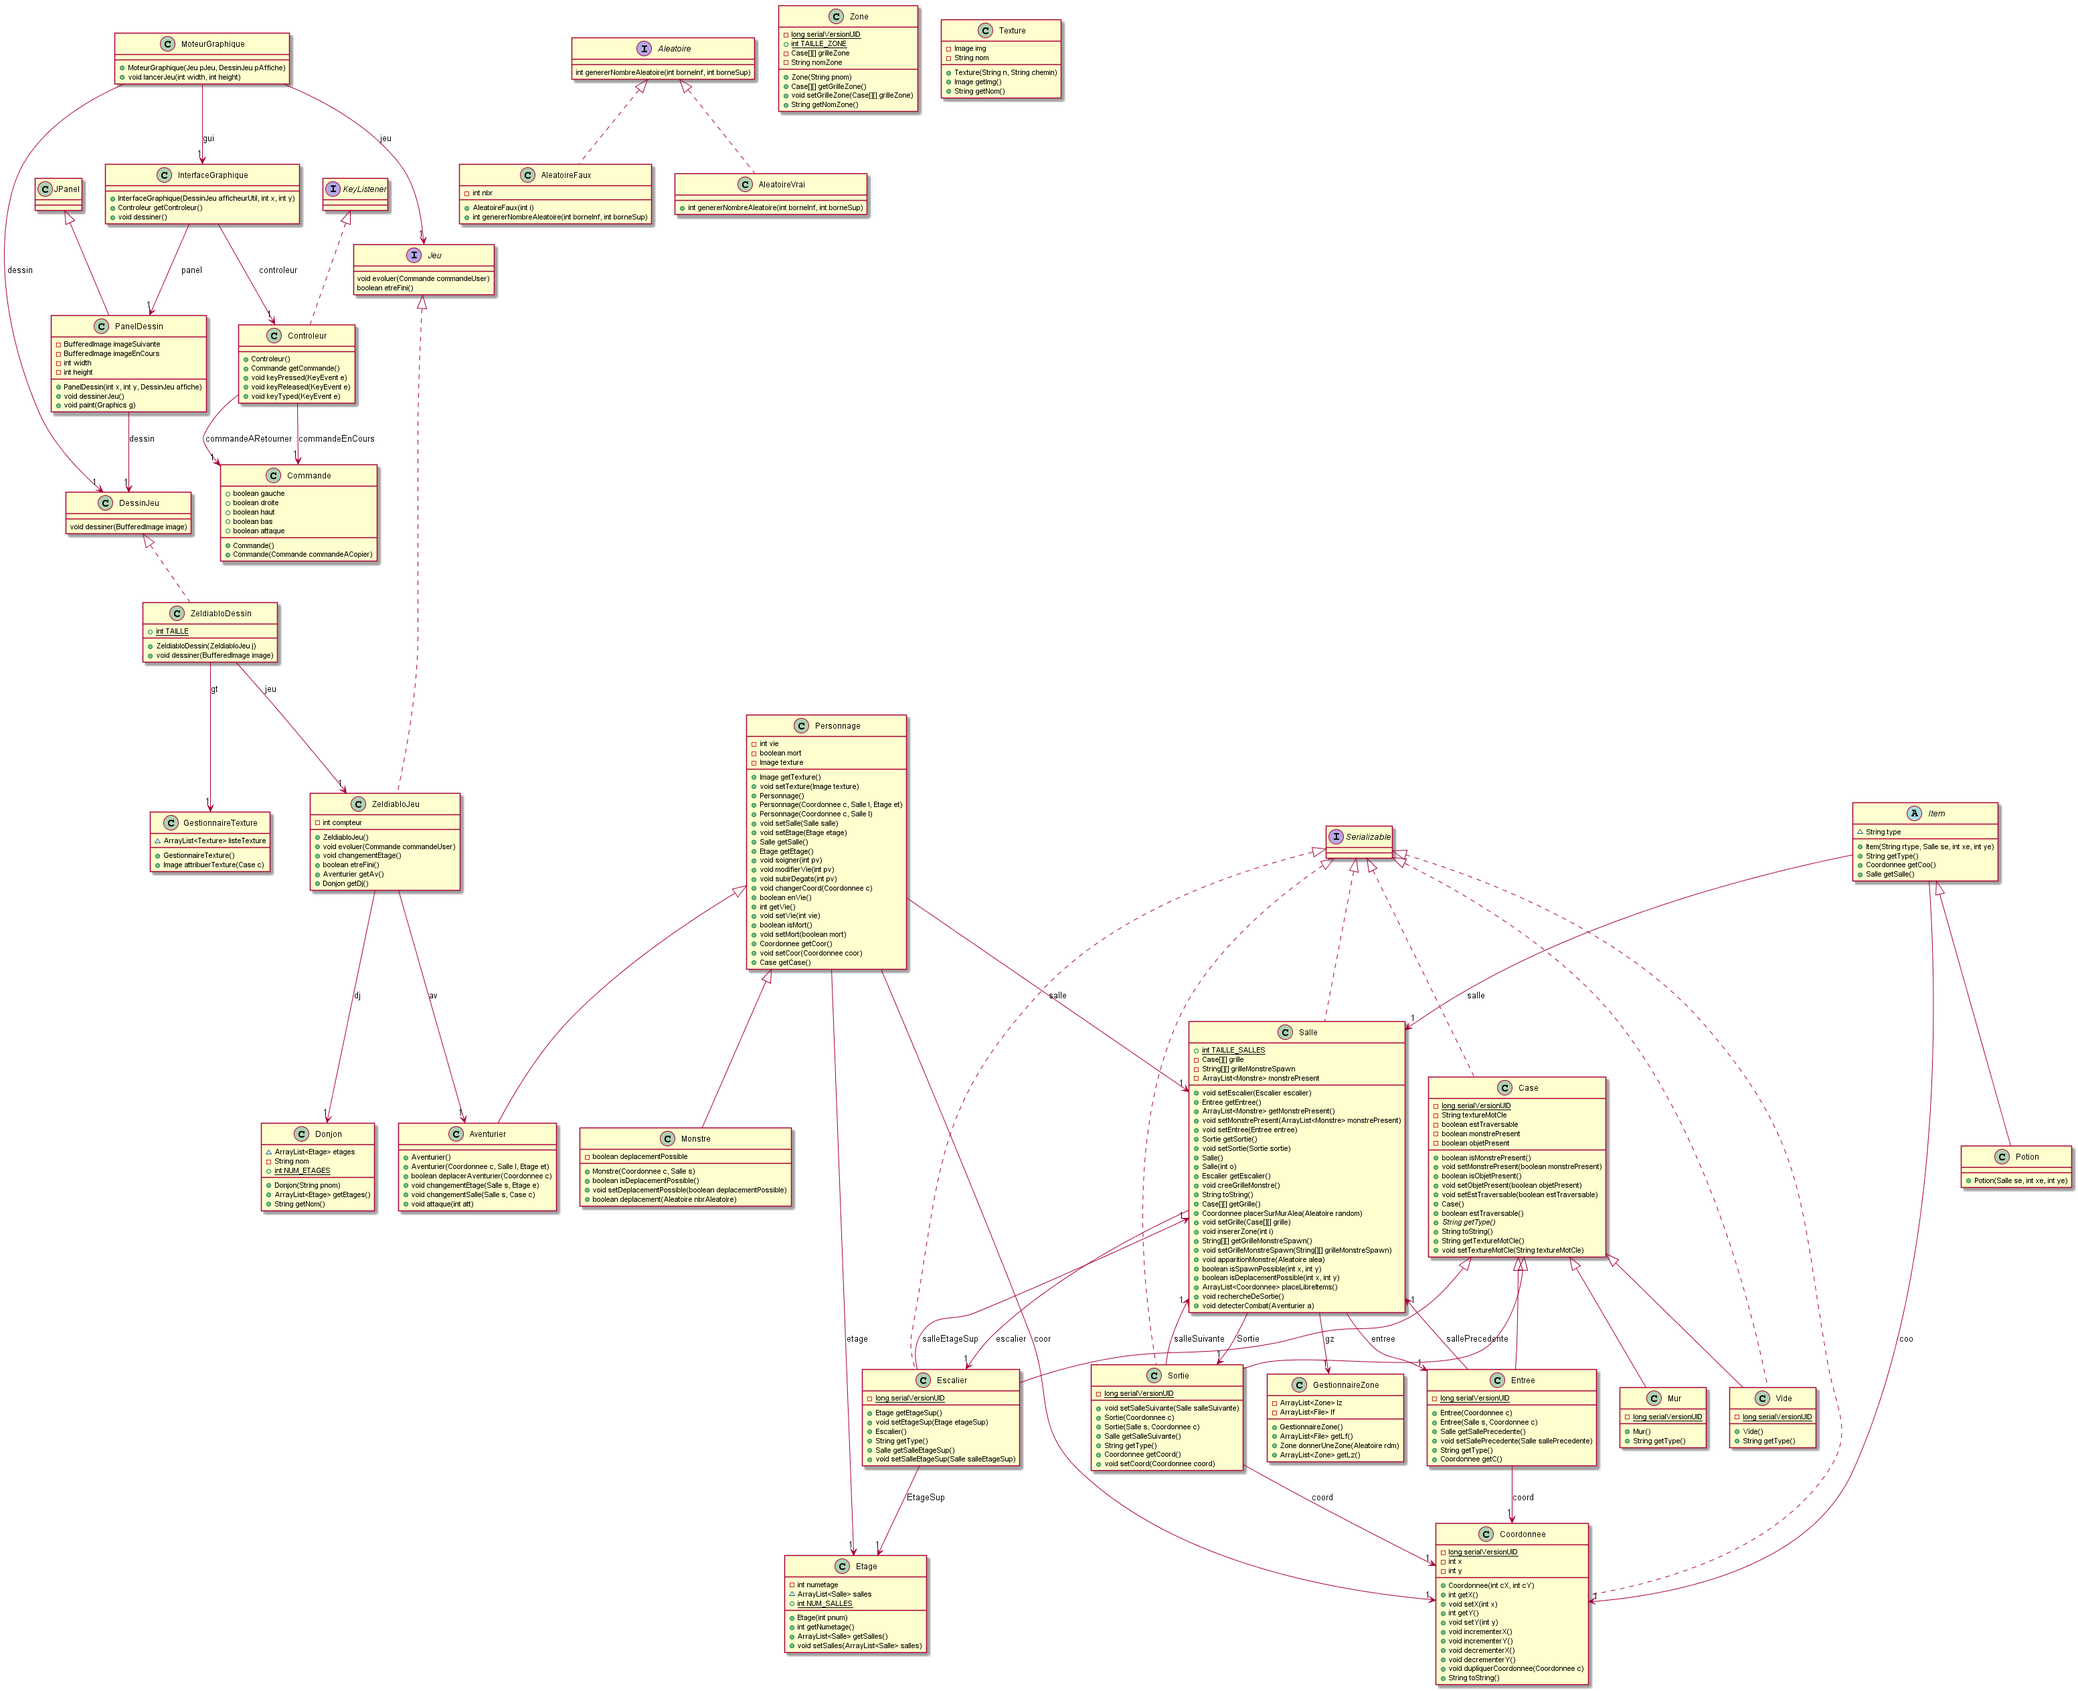
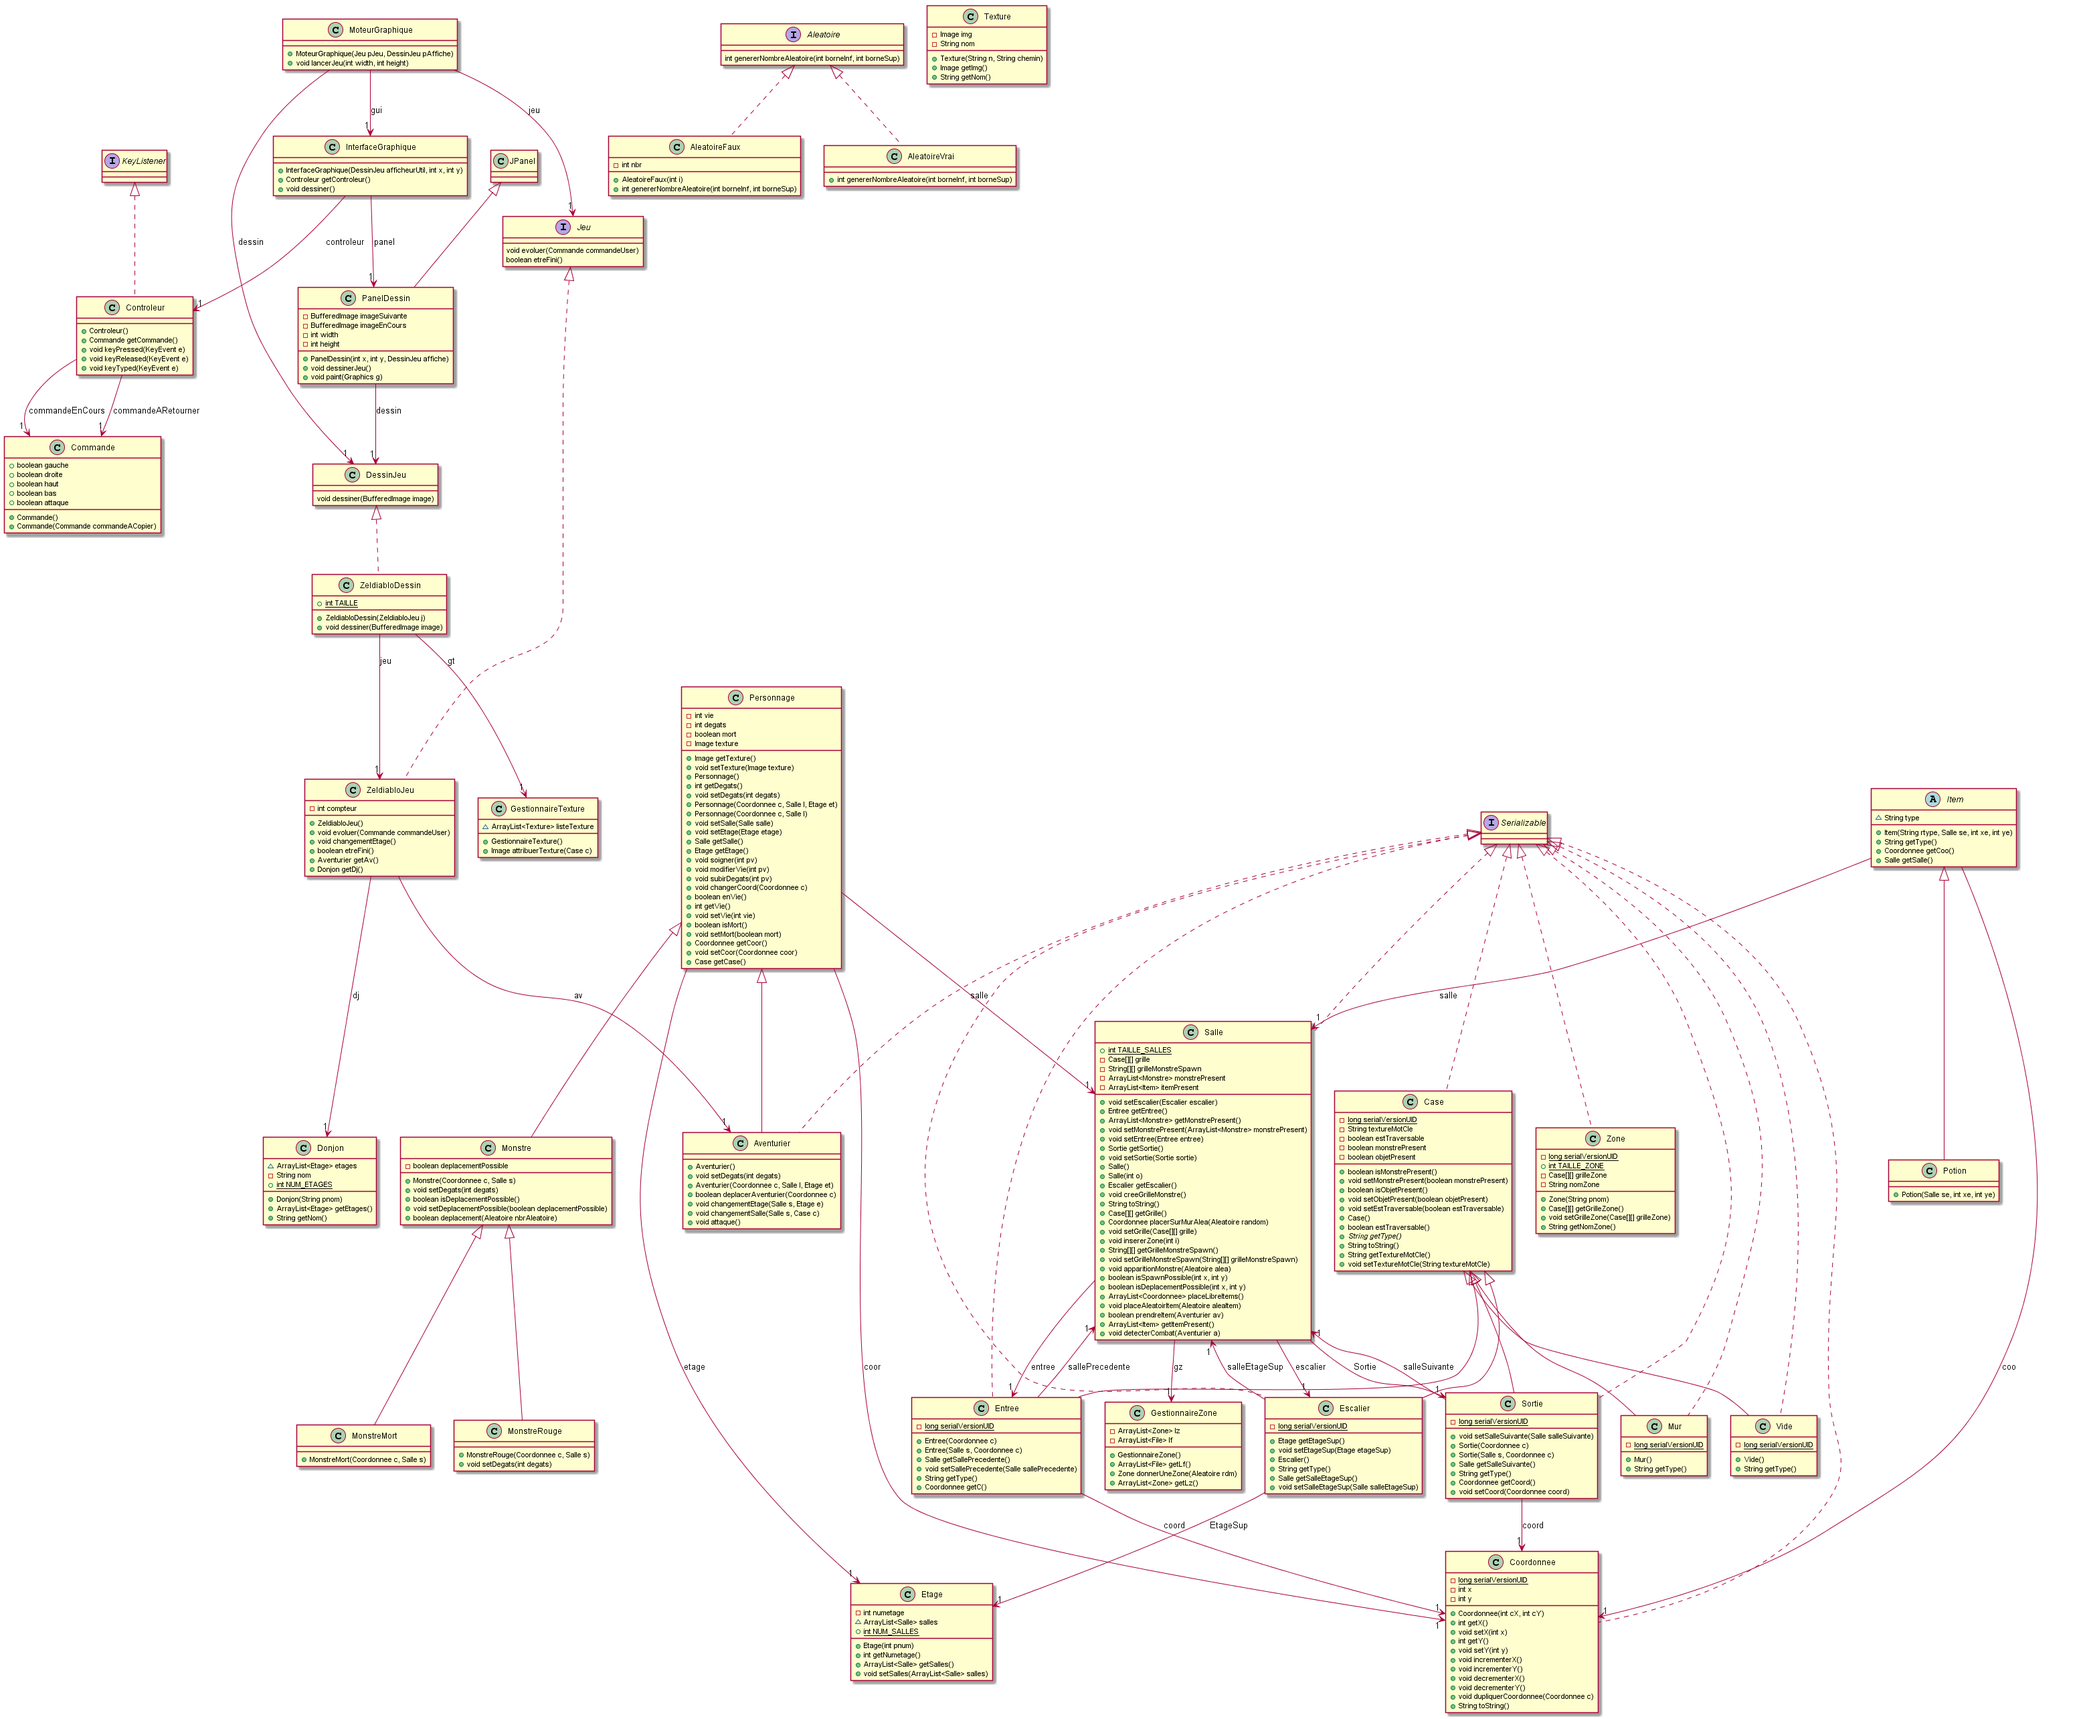
Gestion mortdes monstre + correction

diff --git a/projet_zeldiablo/src/zeldiablo/Salle.java b/projet_zeldiablo/src/zeldiablo/Salle.java
@@ -454,11 +454,23 @@ public class Salle implements Serializable{
 					(monstre.getCoor().getX()-1 == a.getCoor().getX() && monstre.getCoor().getY() == a.getCoor().getY()) || 
 					(monstre.getCoor().getX() == a.getCoor().getX() && monstre.getCoor().getY()+1 == a.getCoor().getY()) || 
 					(monstre.getCoor().getX() == a.getCoor().getX() && monstre.getCoor().getY()-1 == a.getCoor().getY())) {
-				a.subirDegats(a.getDegats());
+				a.subirDegats(monstre.getDegats());
 				monstre.setDeplacementPossible(false);
 				System.out.println(a.getVie()+"");
 			}else {
 				monstre.setDeplacementPossible(true);
+			}
+		}
+	}
+	
+	public void detecterLesMorts() {
+		
+		for(int i = 0; i < this.getMonstrePresent().size(); i++) {
+			if(this.getMonstrePresent().get(i).isMort()) {
+				MonstreMort mM = new MonstreMort(new Coordonnee(this.getMonstrePresent().get(i).getCoor().getX(),this.getMonstrePresent().get(i).getCoor().getY()),this);
+				this.getMonstrePresent().remove(this.getMonstrePresent().indexOf(this.getMonstrePresent().get(i)));
+				this.getMonstrePresent().add(mM);
+				this.getGrille()[mM.getCoor().getX()][mM.getCoor().getY()].setEstTraversable(true);
 			}
 		}
 	}

diff --git a/projet_zeldiablo/src/zeldiablo/ZeldiabloDessin.java b/projet_zeldiablo/src/zeldiablo/ZeldiabloDessin.java
@@ -60,7 +60,7 @@ public class ZeldiabloDessin implements DessinJeu {
 			//System.out.println("");
 		}
 		//System.out.println("============================================");
-		g.drawImage(this.jeu.getAv().getTexture(), this.jeu.getAv().getCoor().getX()*TAILLE, this.jeu.getAv().getCoor().getY()*TAILLE,TAILLE,TAILLE,null);
+		
 		g.setColor(Color.GREEN);
 		for(int i=0;i<this.jeu.getAv().getSalle().getItemPresent().size();i++) {
 			g.fillRect(this.jeu.getAv().getSalle().getItemPresent().get(i).getCoo().getX()*TAILLE, this.jeu.getAv().getSalle().getItemPresent().get(i).getCoo().getY()*TAILLE, TAILLE, TAILLE);
@@ -69,6 +69,8 @@ public class ZeldiabloDessin implements DessinJeu {
 			g.drawImage(this.jeu.getAv().getSalle().getMonstrePresent().get(i).getTexture(),this.jeu.getAv().getSalle().getMonstrePresent().get(i).getCoor().getX()*TAILLE, this.jeu.getAv().getSalle().getMonstrePresent().get(i).getCoor().getY()*TAILLE, TAILLE, TAILLE,null);
 		}
 
+		
+		g.drawImage(this.jeu.getAv().getTexture(), this.jeu.getAv().getCoor().getX()*TAILLE, this.jeu.getAv().getCoor().getY()*TAILLE,TAILLE,TAILLE,null);
 		g.dispose();
 
 	}

diff --git a/projet_zeldiablo/src/zeldiablo/Aventurier.java b/projet_zeldiablo/src/zeldiablo/Aventurier.java
@@ -50,6 +50,7 @@ public class Aventurier extends Personnage implements Serializable{
 		} catch (IOException e) {
 			e.printStackTrace();
 		}
+		this.setDegats(50);
 	}
 
 	/**
@@ -164,8 +165,10 @@ public class Aventurier extends Personnage implements Serializable{
 			if((monstre.getX() == this.getCoor().getX()+1 && monstre.getY() == this.getCoor().getY()) ||
 					(monstre.getX() == this.getCoor().getX()-1 && monstre.getY() == this.getCoor().getY()) ||
 					(monstre.getX() == this.getCoor().getX() && monstre.getY() == this.getCoor().getY()+1) ||
-					(monstre.getX() == this.getCoor().getX()+1 && monstre.getY() == this.getCoor().getY()-1)) {
+					(monstre.getX() == this.getCoor().getX() && monstre.getY() == this.getCoor().getY()-1)) {
 				this.getSalle().getMonstrePresent().get(i).subirDegats(this.getDegats());
+				System.out.println("Aventurier fait "+this.getDegats());
+				System.out.println("Vie monstre "+ this.getSalle().getMonstrePresent().get(i).getVie());
 			}
 					
 		}

diff --git a/projet_zeldiablo/src/zeldiablo/ZeldiabloJeu.java b/projet_zeldiablo/src/zeldiablo/ZeldiabloJeu.java
@@ -67,13 +67,12 @@ public class ZeldiabloJeu implements Jeu {
 				 this.av.getSalle().getMonstrePresent().get(i).deplacement(randomV);
 
 			}
-			this.av.getSalle().detecterCombat(av);
 			compteur=0;
 		}
 		compteur++;
+		this.av.getSalle().detecterCombat(av);
 		this.av.getSalle().prendreItem(av);
-		
-		
+		this.av.getSalle().detecterLesMorts();
 
 	}
 

diff --git a/projet_zeldiablo/src/zeldiablo/MonstreMort.java b/projet_zeldiablo/src/zeldiablo/MonstreMort.java
@@ -14,7 +14,13 @@ public class MonstreMort extends Monstre {
 		} catch (IOException e) {
 			e.printStackTrace();
 		}
+		this.setDeplacementPossible(false);
 		this.setDegats(0);
+	}
+	
+	@Override
+	public void setDeplacementPossible(boolean deplacementPossible) {
+		super.setDeplacementPossible(false);
 	}
 
 }

diff --git a/projet_zeldiablo/src/zeldiablo/Monstre.java b/projet_zeldiablo/src/zeldiablo/Monstre.java
@@ -17,6 +17,7 @@ public class Monstre extends Personnage {
 		} catch (IOException e) {
 			e.printStackTrace();
 		}
+		this.setDeplacementPossible(true);
 		this.setDegats(2);
 	}
 	
